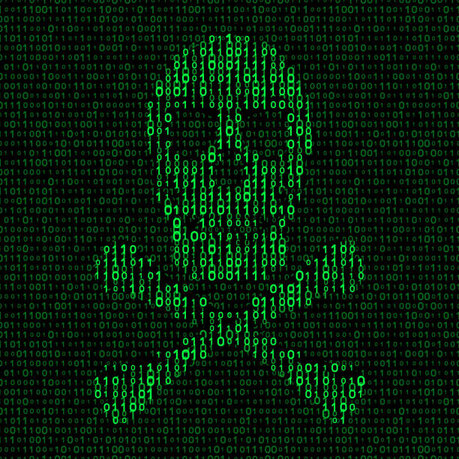
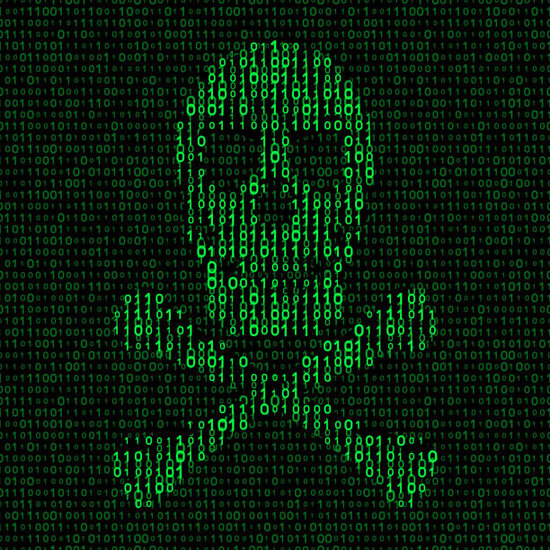
another picture resize... large and small only

diff --git a/index.htm b/index.htm
@@ -11,9 +11,8 @@
         <div class="header">
             <h2>Welcome to my new website!</h2>
             <h5>J/K... go away... still under construction</h5>
-            <img src="/images/skullXbones_big.jpg" 
+            <img src="/images/skullXbones_large.jpg" 
             srcset="/images/skullXbones_small.jpg 480w,
-                /images/skullXbones_med.jpg 768w,
                 /images/skullXbones_big.jpg 1200w"
             sizes="(max-width: 480px) 100vw,
                 1200px">
